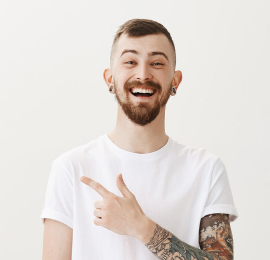
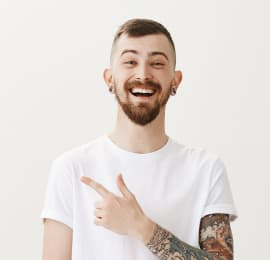
Optimized images adn replace them on new.

diff --git a/css/main.css b/css/main.css
@@ -166,6 +166,9 @@ body {
   text-align: center;
 }
 
+.overlay {
+}
+
 .hero .hero-button {
   border-radius: 4px;
   padding: 10px 32px;
